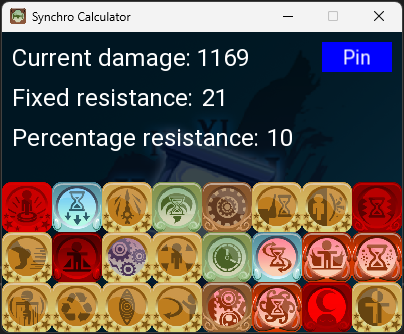
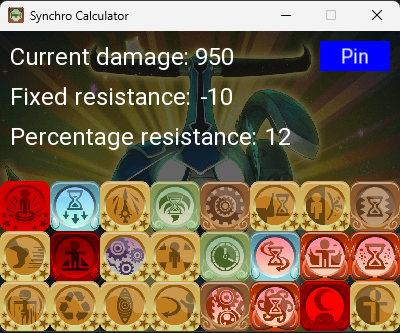
Updated images + Readme

diff --git a/README.md b/README.md
@@ -1,1 +1,31 @@
-# SynchroCalculator
+# Synchro Calculator Dofus 3
+
+### A simple calculator used to find the current damage of the Xelor's Sychro in Dofus 3
+
+## Features
+
+- Keeps track of current telefrags done and the current damage of the Synchro.
+- Can input flat and percent resistances of the target.
+- Can be pinned to stay on top of other windows.
+- Will become transparent when not in focus.
+
+## Usage
+
+Just run the .exe file to get the GUI.\
+Click on the number to change to input new values for the resistances.\
+Click on the spells to mark them as "Used" and to increase the damage of the Synchro.
+
+## Screenshots
+
+![Basic App State](screenshot/app_basic_state.png)
+
+![App with some spells used](screenshot/app_spell_used.png)
+
+![App with resistances input](screenshot/app_resistance.png)
+
+![App when transparent](screenshot/app_transparent.png)
+
+## Informations
+
+Up to date with Dofus 3.0\
+All images are Ankama Games property.
